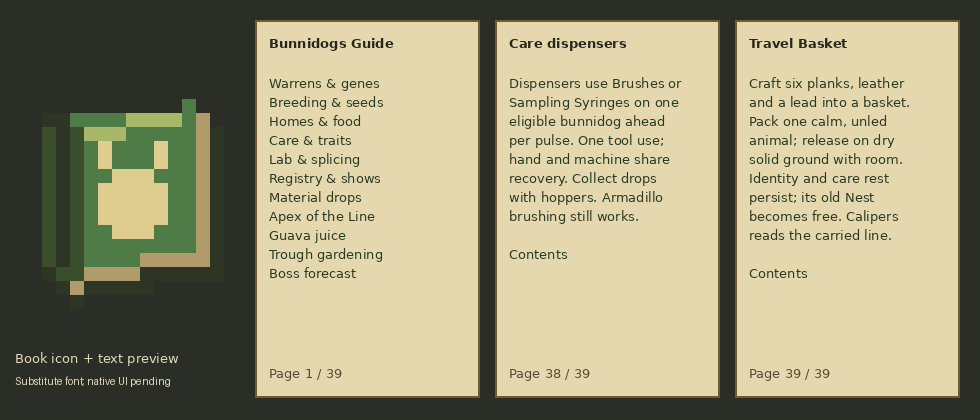
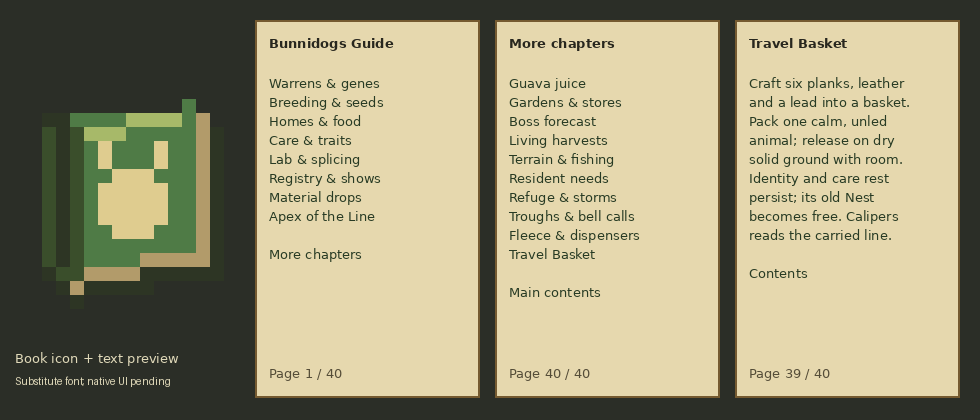
Index new Field Guide chapters across two linked contents pages

diff --git a/art/gen_guide.py b/art/gen_guide.py
@@ -44,8 +44,11 @@ PAGES = {
     38: ('Care dispensers', 'Dispensers use Brushes or Sampling Syringes on one eligible bunnidog ahead per pulse. One tool use; hand and machine share recovery. Collect drops with hoppers. Armadillo brushing still works.'),
     39: ('Travel Basket', 'Craft six planks, leather and a lead into a basket. Pack one calm, unled animal; release on dry solid ground with room. Identity and care rest persist; its old Nest becomes free. Calipers reads the carried line.'),
 }
-INDEX = {2:'Warrens & genes',4:'Breeding & seeds',8:'Homes & food',11:'Care & traits',15:'Lab & splicing',
-         17:'Registry & shows',19:'Material drops',20:'Apex of the Line',24:'Guava juice',25:'Trough gardening',27:'Boss forecast'}
+PAGE_COUNT = 40
+MAIN_INDEX = {2:'Warrens & genes',4:'Breeding & seeds',8:'Homes & food',11:'Care & traits',15:'Lab & splicing',
+              17:'Registry & shows',19:'Material drops',20:'Apex of the Line'}
+MORE_INDEX = {24:'Guava juice',25:'Gardens & stores',27:'Boss forecast',28:'Living harvests',29:'Terrain & fishing',
+              31:'Resident needs',32:'Refuge & storms',34:'Troughs & bell calls',36:'Fleece & dispensers',39:'Travel Basket'}
 
 
 def pantry_guide_pool():
@@ -73,8 +76,9 @@ def main():
           'requirements':[['has_guava','has_recipe']],'rewards':{'recipes':['bunnidogs:field_guide']}})
     for path in (RES/'assets/bunnidogs/lang').glob('*.json'):
         value = json.loads(path.read_text()); value.update({'item.bunnidogs.field_guide':'Bunnidogs Field Guide',
-          'guide.bunnidogs.title':'Bunnidogs Guide','guide.bunnidogs.contents':'Contents'})
-        for page,label in INDEX.items(): value[f'guide.bunnidogs.index.{page}'] = label
+          'guide.bunnidogs.title':'Bunnidogs Guide','guide.bunnidogs.contents':'Contents',
+          'guide.bunnidogs.more_contents':'More chapters','guide.bunnidogs.main_contents':'Main contents'})
+        for page,label in (MAIN_INDEX | MORE_INDEX).items(): value[f'guide.bunnidogs.index.{page}'] = label
         for page,(title,body) in PAGES.items():
             value[f'guide.bunnidogs.page.{page}.title'] = title
             value[f'guide.bunnidogs.page.{page}.body'] = body
@@ -91,13 +95,15 @@ def main():
         bold = ImageFont.truetype('DejaVuSans-Bold.ttf',13)
     except OSError:
         font = bold = ImageFont.load_default()
-    for x,page in [(255,1),(495,38),(735,39)]:
+    for x,page in [(255,1),(495,40),(735,39)]:
         d.rectangle((x,20,x+224,397),fill=(230,216,174),outline=(117,90,48),width=2)
-        d.text((x+14,35), 'Bunnidogs Guide' if page == 1 else PAGES[page][0], font=bold,fill=(40,39,30))
-        if page == 1: body = '\n'.join(INDEX.values())
+        title = 'Bunnidogs Guide' if page == 1 else 'More chapters' if page == 40 else PAGES[page][0]
+        d.text((x+14,35),title,font=bold,fill=(40,39,30))
+        if page == 1: body = '\n'.join(MAIN_INDEX.values()) + '\n\nMore chapters'
+        elif page == 40: body = '\n'.join(MORE_INDEX.values()) + '\n\nMain contents'
         else: body = '\n'.join(textwrap.wrap(PAGES[page][1],25)) + '\n\nContents'
         d.multiline_text((x+14,75),body,font=font,spacing=6,fill=(40,59,36))
-        d.text((x+14,365),f'Page {page} / {max(PAGES)}',font=font,fill=(85,77,56))
+        d.text((x+14,365),f'Page {page} / {PAGE_COUNT}',font=font,fill=(85,77,56))
     d.text((15,350),'Book icon + text preview',font=font,fill=(224,217,185))
     d.text((15,375),'Substitute font; native UI pending',font=ImageFont.load_default(),fill=(224,217,185))
     preview.save(ROOT/'art/guide_preview.png')

diff --git a/src/main/java/com/bunnidogs/mod/item/FieldGuideItem.java b/src/main/java/com/bunnidogs/mod/item/FieldGuideItem.java
@@ -11,31 +11,38 @@ import net.minecraft.world.item.component.WrittenBookContent;
 
 /** Native book UI/packets, translated pages and local page links; no custom screen or payload. */
 public final class FieldGuideItem extends WrittenBookItem {
-    public static final int PAGE_COUNT = 39;
+    public static final int PAGE_COUNT = 40;
+    private static final int MORE_CONTENTS = 40;
     public FieldGuideItem(Properties properties) {
         super(properties.component(DataComponents.WRITTEN_BOOK_CONTENT, content()));
     }
     private static WrittenBookContent content() {
         var pages = new ArrayList<Filterable<Component>>(PAGE_COUNT);
-        var contents = Component.translatable("guide.bunnidogs.title").withStyle(ChatFormatting.BOLD)
-                .append(Component.literal("\n\n").withStyle(ChatFormatting.RESET));
-        for (int page : new int[]{2,4,8,11,15,17,19,20,24,25,27}) {
-            contents.append(Component.translatable("guide.bunnidogs.index." + page).withStyle(style -> style
-                    .withBold(false).withColor(ChatFormatting.DARK_GREEN).withUnderlined(true)
-                    .withClickEvent(new ClickEvent.ChangePage(page))));
-            contents.append("\n");
-        }
-        pages.add(Filterable.passThrough(contents));
+        pages.add(Filterable.passThrough(contents("guide.bunnidogs.title",new int[]{2,4,8,11,15,17,19,20},
+                "guide.bunnidogs.more_contents",MORE_CONTENTS)));
         for (int page = 2; page <= PAGE_COUNT; page++) {
+            if (page == MORE_CONTENTS) {
+                pages.add(Filterable.passThrough(contents("guide.bunnidogs.more_contents",new int[]{24,25,27,28,29,31,32,34,36,39},
+                        "guide.bunnidogs.main_contents",1)));
+                continue;
+            }
             var text = Component.translatable("guide.bunnidogs.page." + page + ".title").withStyle(ChatFormatting.BOLD)
                     .append(Component.literal("\n\n").withStyle(style -> style.withBold(false)))
                     .append(Component.translatable("guide.bunnidogs.page." + page + ".body").withStyle(style -> style.withBold(false)))
                     .append(Component.literal("\n\n").withStyle(style -> style.withBold(false)))
-                    .append(Component.translatable("guide.bunnidogs.contents").withStyle(style -> style
-                            .withBold(false).withUnderlined(true).withColor(ChatFormatting.DARK_GREEN)
-                            .withClickEvent(new ClickEvent.ChangePage(1))));
+                    .append(link("guide.bunnidogs.contents",page < 24 ? 1 : MORE_CONTENTS));
             pages.add(Filterable.passThrough(text));
         }
         return new WrittenBookContent(Filterable.passThrough("Bunnidogs Guide"), "Warren Keepers", 0, pages, true);
+    }
+    private static Component contents(String title, int[] chapters, String footer, int destination) {
+        var contents = Component.translatable(title).withStyle(ChatFormatting.BOLD)
+                .append(Component.literal("\n\n").withStyle(ChatFormatting.RESET));
+        for (int page : chapters) contents.append(link("guide.bunnidogs.index."+page,page)).append("\n");
+        return contents.append("\n").append(link(footer,destination));
+    }
+    private static Component link(String key, int destination) {
+        return Component.translatable(key).withStyle(style -> style.withBold(false).withColor(ChatFormatting.DARK_GREEN)
+                .withUnderlined(true).withClickEvent(new ClickEvent.ChangePage(destination)));
     }
 }

diff --git a/docs/FIELD_GUIDE.md b/docs/FIELD_GUIDE.md
@@ -27,8 +27,8 @@ containers are not refilled and player inventories are not edited. See
 
 ## Presentation and saves
 
-Thirty-nine pages use the ordinary written-book screen. Page 1 has eleven clickable
-chapter links; every other page links back to the contents. Local page changes
+Forty pages use the ordinary written-book screen. The two linked contents pages
+offer eighteen clickable chapter links. Each chapter links back to its index. Local page changes
 are the only click action. All text is translatable through en_us.json. The
 book stacks to one and appears beside the Calipers in Tools & Utilities.
 
@@ -46,8 +46,8 @@ resource-pack fonts may differ. The source preview uses a substitute font.
 ## Evidence
 
 The actual Java 25 build and current twenty-seven native server cases pass,
-including loading the new book/recipe/loot resources. The expanded 39-page
-contents/care-station/basket preview is inspected with a substitute font. Earlier
+including loading the new book/recipe/loot resources. The expanded 40-page
+two-contents/basket preview is inspected with a substitute font. Earlier
 pages were shortened using the conservative native text-area estimate.
 Native WrittenBookItem, ServerPlayer, ClientPacketListener and BookViewScreen
 sources establish the ordinary book/packet/click behavior; no new screen or
@@ -56,3 +56,18 @@ exact-commit artifact is checked.
 
 Actual client navigation, font rendering and natural pantry discovery still
 need gameplay review. Server loading does not establish these client details.
+
+## P3 — Find the newer chapters
+
+The original contents became crowded as new living-care and habitat mechanics
+were added. Page 1 now links to eight core chapters and **More chapters** on
+page 40. That second index links to ten newer chapter groups, from juice and
+gardens through resident needs, care stations and Travel Baskets, plus a return
+to **Main contents**. All existing content stays on pages 2–39.
+
+Pages 2–23 return to page 1; pages 24–39 return to page 40. All navigation uses
+native `ClickEvent.ChangePage`. The item default updates ordinary existing
+guides; deliberately overridden written-book components retain their contents.
+The Java/resource build validates this small presentation change. The preview
+covers both indices and the basket chapter; actual native fonts remain client
+review. No new server mechanics or saved format are introduced.

diff --git a/docs/API_NOTES.md b/docs/API_NOTES.md
@@ -28,6 +28,7 @@ Status words: **COMPILED** = the user's compile accepted it (names and types are
 ### Lookup table (need -> what works in this project -> status -> exact place)
 | Need | What works | Status | Where it was verified |
 |---|---|---|---|
+| Field Guide P3 | Native ClickEvent.ChangePage takes one-based page numbers. Keep original chapters 2–39; append second contents at 40 and route chapter return links to the relevant index. Item-default WRITTEN_BOOK_CONTENT needs no new payload or component. | Java/resource build + two-index preview; native font/navigation review pending | FieldGuideItem, art/gen_guide.py, FIELD_GUIDE.md |
 | Travel Basket H6 | Native BUCKET_ENTITY_DATA is CustomData; full saveWithoutId(ValueOutput) stores UUID/Genome/Stats and remaining care. CompoundTag read/store accept Codecs; rewrite Entity.TAG_POS before load, then reset movement/fall. ServerLevel.getEntityInAnyDimension guards a present UUID; loaded bounds + noCollision(entity,box,true) guard release before addFreshEntity. Native creative item hooks may pass a copy: mutate the actual held stack. | Build + native identity/item-codec/recovery/Nest/creative/survival/pup/refusal case; all 27 pass | TravelBasketItem, BasketGameTest, NestHome.release |
 | Fresh native pathfinding | GroundPathNavigation.canUpdatePath requires onGround, liquid or passenger state. A freshly spawned helper mob needs a physics tick before a valid route/claim assertion; ticket checks can query the exact POI independently. | Source + grounded resident handoff case | GroundPathNavigation, BasketGameTest |
 | Dispenser care C8 | Queue `DispenserBlock.registerBehavior` in FMLCommonSetupEvent.enqueueWork. OptionalDispenseItemBehavior retains reusable tools; native server hurtAndBreak accepts a null owner. Preserve the already registered Brush behavior for armadillos. DefaultDispenseItemBehavior.spawnItem ejects full sample components. | Build + real redstone/dispenser/product/sample/breakage/armadillo case | ModDispensers, BunnidogCare, CareDispenserGameTest |

diff --git a/START_HERE.md b/START_HERE.md
@@ -20,6 +20,11 @@ is not exposed in this session: use available work budget without inventing quot
 
 ## Latest gameplay work — 2026-10-17
 
+- **P3, guide navigation:** two linked contents pages offer eighteen chapter
+  links. Newer chapters return to the second index; existing chapter numbers
+  stay stable. Native book/page-change behavior is retained. See
+  `docs/FIELD_GUIDE.md` P3.
+
 - **H6, Travel Basket:** carries one existing calm, unled ordinary animal using
   its full native data. UUID, line, name/parents/tag and paused care state survive
   native item saves. Packing frees the old Nest; blocked/duplicate/invalid
@@ -56,7 +61,8 @@ shore fishing (Diet D5), native terrain traits (A4), local supplies (L6), living
 dust (C5) and gardening/fitted farm corners (L5). Their full rules and evidence
 are in the care/settlement specs and `docs/FIXES_PLAN.md` 6.5. Do not redo them.
 
-The native Field Guide has 39 translated pages and eleven contents links.
+The native Field Guide has 40 translated pages and eighteen chapter links across
+two linked contents pages.
 `art/gen_guide.py` owns text/icon/preview; `art/gen_pantries.py` owns eight
 lineage food tables and shares the guide pool. See `docs/FIELD_GUIDE.md`.
 
@@ -154,7 +160,7 @@ The current Java 25 build and all **twenty-seven** native scenarios pass
   cyan regrowth, spotted's combined yield/one wear, read-only Calipers and all
   palette names/total yields. Save/readiness cases remain covered.
 
-The 39-page guide and basket previews are inspected. Each published GitHub build also checks
+The 40-page guide and basket previews are inspected. Each published GitHub build also checks
 the approved model before uploading its exact-commit artifact. Earlier
 fixture/gardening, diet/fishing, terrain, care/lab/show/registry, transport/Nest,
 refuge/weather, sign/boat and Apex cases remain part of this suite; detailed

diff --git a/README.md b/README.md
@@ -4,7 +4,8 @@ A NeoForge mod for Minecraft 26.2: a baby-faced creature with rabbit ears and a
 dog's body, plus breeding, genetics, guavas, warrens, homes and pedigree tools.
 Requires JDK 25. The checked-in Gradle wrapper selects the project Gradle version.
 
-Craft a vanilla book with any guava for the **39-page Field Guide**. Sneak-use
+Craft a vanilla book with any guava for the **40-page Field Guide**, with two
+linked contents pages covering its chapters. Sneak-use
 Calipers for care/work readiness, use a hoe on a Feeding Trough to enable
 resident gardening, and explore food stores for supplies suited to each lineage.
 Living glow/starborn lines yield renewable dust, while inherited terrain traits

diff --git a/docs/ROADMAP.md b/docs/ROADMAP.md
@@ -16,6 +16,10 @@ and mouths, **H3b** house floor Nests. V1a, V1b, H3 and H4 WORK.
 
 ## Latest implemented work (gameplay pending)
 
+P3 expands the Field Guide to 40 pages with two linked contents pages and
+eighteen chapter links. Newer chapters return to their own index; existing
+chapter numbers stay stable. See `FIELD_GUIDE.md`.
+
 H6 adds a craftable Travel Basket preserving one animal's UUID and native
 biology/care state, freeing its old Nest and retaining payload on unsafe release.
 Calipers reads the carried animal without unpacking. See `HOME_SPECS.md`.

diff --git a/docs/FEATURES.md b/docs/FEATURES.md
@@ -1,7 +1,8 @@
 # Bunnidogs: how to use each feature in game
 
 **Field Guide (P1):** combine a vanilla book with any guava. Use the book to
-open 39 pages from first warren to Apex, with clickable chapter/contents links.
+open 40 pages from first warren to Apex. Two linked contents pages offer eighteen
+chapter links; newer chapters return to the second index.
 It can also appear in unopened warren pantry barrels (35% chance). Native book
 pages, rather than a separate custom screen, explain the progression in-game.
 
